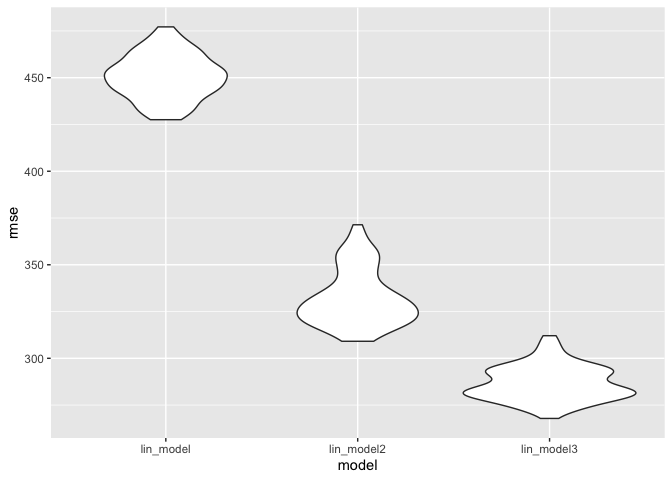
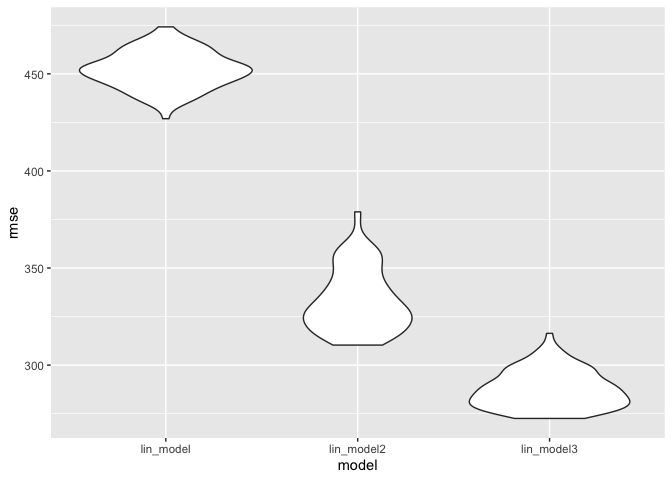
Problem 2: created scatterplots to check for linearity before modelling

diff --git a/p8105_hw6_gb2685.md b/p8105_hw6_gb2685.md
@@ -75,17 +75,45 @@ birthweight_df =
 
 Based on hypothesis found in literature, I have selected the following
 variables as predictors: Mother’s weight gain during pregnancy (pounds)
-(wtgain) Gestational age in weeks (gaweeks) Smoking status - Average
-number of cigarettes smoked per day during pregnancy (smoken) Baby’s sex
-(babysex)
+(wtgain) Gestational age in weeks (gaweeks) Baby’s sex (babysex)
 
 This model was decided based on literature evidence that suggested an
 association between these predictors and the baby’s birthweight.
 
+However, before building the regression model, we assume linearity and
+hence it is necessary to make a scatterplot to see if the outcome and
+predictor are linearly related.
+
+**Making a scatterplot**
+
+``` r
+ggplot(birthweight_df, aes(x = wtgain, y = bwt, color = babysex)) + 
+  geom_point() +
+  geom_smooth(se = FALSE)
+```
+
+    ## `geom_smooth()` using method = 'gam' and formula 'y ~ s(x, bs = "cs")'
+
+![](p8105_hw6_gb2685_files/figure-gfm/unnamed-chunk-4-1.png)<!-- -->
+
+``` r
+ggplot(birthweight_df, aes(x = gaweeks, y = bwt, color = babysex)) + 
+  geom_point() +
+  geom_smooth(se = FALSE)
+```
+
+    ## `geom_smooth()` using method = 'gam' and formula 'y ~ s(x, bs = "cs")'
+
+![](p8105_hw6_gb2685_files/figure-gfm/unnamed-chunk-4-2.png)<!-- -->
+
+It appears that there could be a linear relationship among the
+predictors Mother’s weight and Gestational age when stratified by Baby’s
+sex. Therefore I also decided to include the interaction term.
+
 **Building the proposed model:**
 
 ``` r
-lin_model = lm(bwt ~ wtgain + gaweeks + smoken + babysex, data = birthweight_df)
+lin_model = lm(bwt ~ wtgain*gaweeks*babysex, data = birthweight_df)
 
 lin_model %>%
   broom::tidy() %>% 
@@ -94,13 +122,16 @@ lin_model %>%
   knitr::kable(digits = 3)
 ```
 
-| term               | estimate | p.value |
-| :----------------- | -------: | ------: |
-| (Intercept)        |  498.904 |       0 |
-| wtgain             |    8.859 |       0 |
-| gaweeks            |   63.239 |       0 |
-| smoken             |  \-6.733 |       0 |
-| baby’s sex: female | \-93.515 |       0 |
+| term                              |  estimate | p.value |
+| :-------------------------------- | --------: | ------: |
+| (Intercept)                       | \-979.074 |   0.000 |
+| wtgain                            |    78.773 |   0.000 |
+| gaweeks                           |   100.188 |   0.000 |
+| baby’s sex: female                |   252.919 |   0.478 |
+| wtgain:gaweeks                    |   \-1.773 |   0.000 |
+| wtgain:baby’s sex: female         |  \-15.187 |   0.316 |
+| gaweeks:baby’s sex: female        |   \-8.817 |   0.332 |
+| wtgain:gaweeks:baby’s sex: female |     0.389 |   0.308 |
 
 ``` r
 birthweight_df %>% 
@@ -109,7 +140,7 @@ birthweight_df %>%
   ggplot(aes(x = pred, y = resid)) + geom_point()
 ```
 
-![](p8105_hw6_gb2685_files/figure-gfm/unnamed-chunk-5-1.png)<!-- -->
+![](p8105_hw6_gb2685_files/figure-gfm/unnamed-chunk-6-1.png)<!-- -->
 
 **Buiding the other two models:**
 
@@ -133,7 +164,7 @@ lin_model2 %>%
 Model 3:
 
 ``` r
-lin_model3 = lm(bwt ~ bhead + blength + babysex, data = birthweight_df)
+lin_model3 = lm(bwt ~ bhead*blength*babysex, data = birthweight_df)
 
 lin_model3 %>%
   broom::tidy() %>% 
@@ -142,22 +173,26 @@ lin_model3 %>%
   knitr::kable(digits = 3)
 ```
 
-| term               |   estimate | p.value |
-| :----------------- | ---------: | ------: |
-| (Intercept)        | \-6121.391 |       0 |
-| bhead              |    148.175 |       0 |
-| blength            |     85.016 |       0 |
-| baby’s sex: female |     41.086 |       0 |
+| term                             |   estimate | p.value |
+| :------------------------------- | ---------: | ------: |
+| (Intercept)                      | \-7176.817 |   0.000 |
+| bhead                            |    181.796 |   0.000 |
+| blength                          |    102.127 |   0.000 |
+| baby’s sex: female               |   6374.868 |   0.000 |
+| bhead:blength                    |    \-0.554 |   0.478 |
+| bhead:baby’s sex: female         |  \-198.393 |   0.000 |
+| blength:baby’s sex: female       |  \-123.773 |   0.000 |
+| bhead:blength:baby’s sex: female |      3.878 |   0.000 |
 
 Fit the three models
 
 ``` r
-lin_model = lm(bwt ~ wtgain + gaweeks + smoken + babysex, data = birthweight_df)
+lin_model = lm(bwt ~ wtgain*gaweeks*babysex, data = birthweight_df)
 lin_model2 = lm(bwt ~ blength + gaweeks, data = birthweight_df)
-lin_model3 = lm(bwt ~ bhead + blength + babysex + bhead*blength + blength*babysex + bhead*babysex +  bhead*blength*babysex, data = birthweight_df)
+lin_model3 = lm(bwt ~ bhead*blength*babysex, data = birthweight_df)
 ```
 
-Cross validation
+**Cross validation**
 
 ``` r
 cv_df = 
@@ -196,4 +231,30 @@ cv_df %>%
   ggplot(aes(x = model, y = rmse)) + geom_violin()
 ```
 
-![](p8105_hw6_gb2685_files/figure-gfm/unnamed-chunk-10-1.png)<!-- -->
+![](p8105_hw6_gb2685_files/figure-gfm/unnamed-chunk-11-1.png)<!-- -->
+
+## Problem 3
+
+``` r
+weather_df = 
+  rnoaa::meteo_pull_monitors(
+    c("USW00094728"),
+    var = c("PRCP", "TMIN", "TMAX"), 
+    date_min = "2017-01-01",
+    date_max = "2017-12-31") %>%
+  mutate(
+    name = recode(id, USW00094728 = "CentralPark_NY"),
+    tmin = tmin / 10,
+    tmax = tmax / 10) %>%
+  select(name, id, everything())
+```
+
+    ## Registered S3 method overwritten by 'hoardr':
+    ##   method           from
+    ##   print.cache_info httr
+
+    ## using cached file: /Users/gauribhatkhande/Library/Caches/R/noaa_ghcnd/USW00094728.dly
+
+    ## date created (size, mb): 2020-12-09 17:30:14 (7.536)
+
+    ## file min/max dates: 1869-01-01 / 2020-12-31
